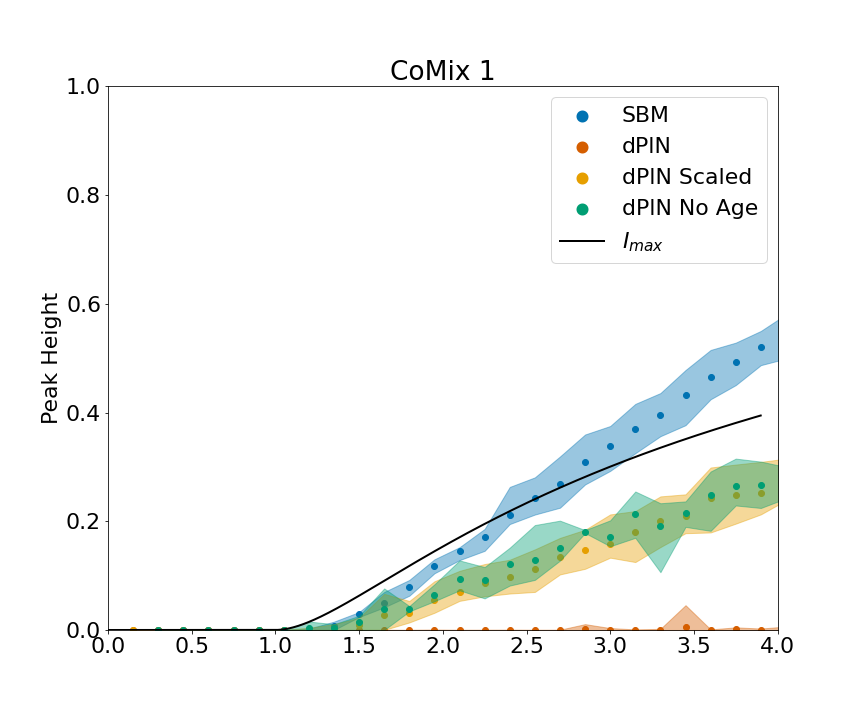
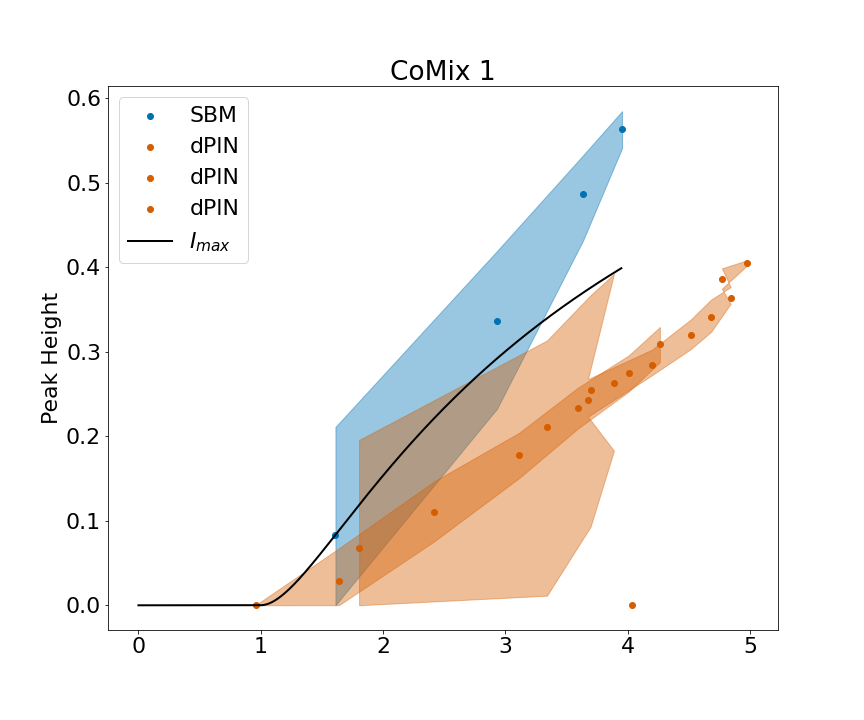
non log growth rate

diff --git a/growth_rate_fig.py b/growth_rate_fig.py
@@ -90,8 +90,8 @@ for i, data in enumerate(datas):
                         for vec in Is:
                             # ( log(I(t+T)) - log(I(t)) ) / T
                             if len(vec) > 1:
-                                growth_rates.append((np.log(vec[-1]) - np.log(vec[0])) / T)
-                                # growth_rates1.append((vec[-1] - vec[0]) / T)
+                                # growth_rates.append((np.log(vec[-1]) - np.log(vec[0])) / T)
+                                growth_rates.append((vec[-1] - vec[0]) / T)
                             else:
                                 growth_rates.append(0)
                                 # growth_rates1.append(0)
@@ -136,7 +136,7 @@ for i, data in enumerate(datas):
             print(index)
             # print(ys)
             
-    np.savetxt(f'../output_data/simulations/big/sellke/growth_rate/figures/xs_{data}_{model}.csv', xs)
-    np.savetxt(f'../output_data/simulations/big/sellke/growth_rate/figures/ys_{data}_{model}.csv',ys)
-    np.savetxt(f'../output_data/simulations/big/sellke/growth_rate/figures/bot_{data}_{model}.csv',bot)
-    np.savetxt(f'../output_data/simulations/big/sellke/growth_rate/figures/top_{data}_{model}.csv',top)
+    np.savetxt(f'../output_data/simulations/big/sellke/growth_rate/figures/xs_{data}_{model}_nl.csv', xs)
+    np.savetxt(f'../output_data/simulations/big/sellke/growth_rate/figures/ys_{data}_{model}_nl.csv',ys)
+    np.savetxt(f'../output_data/simulations/big/sellke/growth_rate/figures/bot_{data}_{model}_nl.csv',bot)
+    np.savetxt(f'../output_data/simulations/big/sellke/growth_rate/figures/top_{data}_{model}_nl.csv',top)
